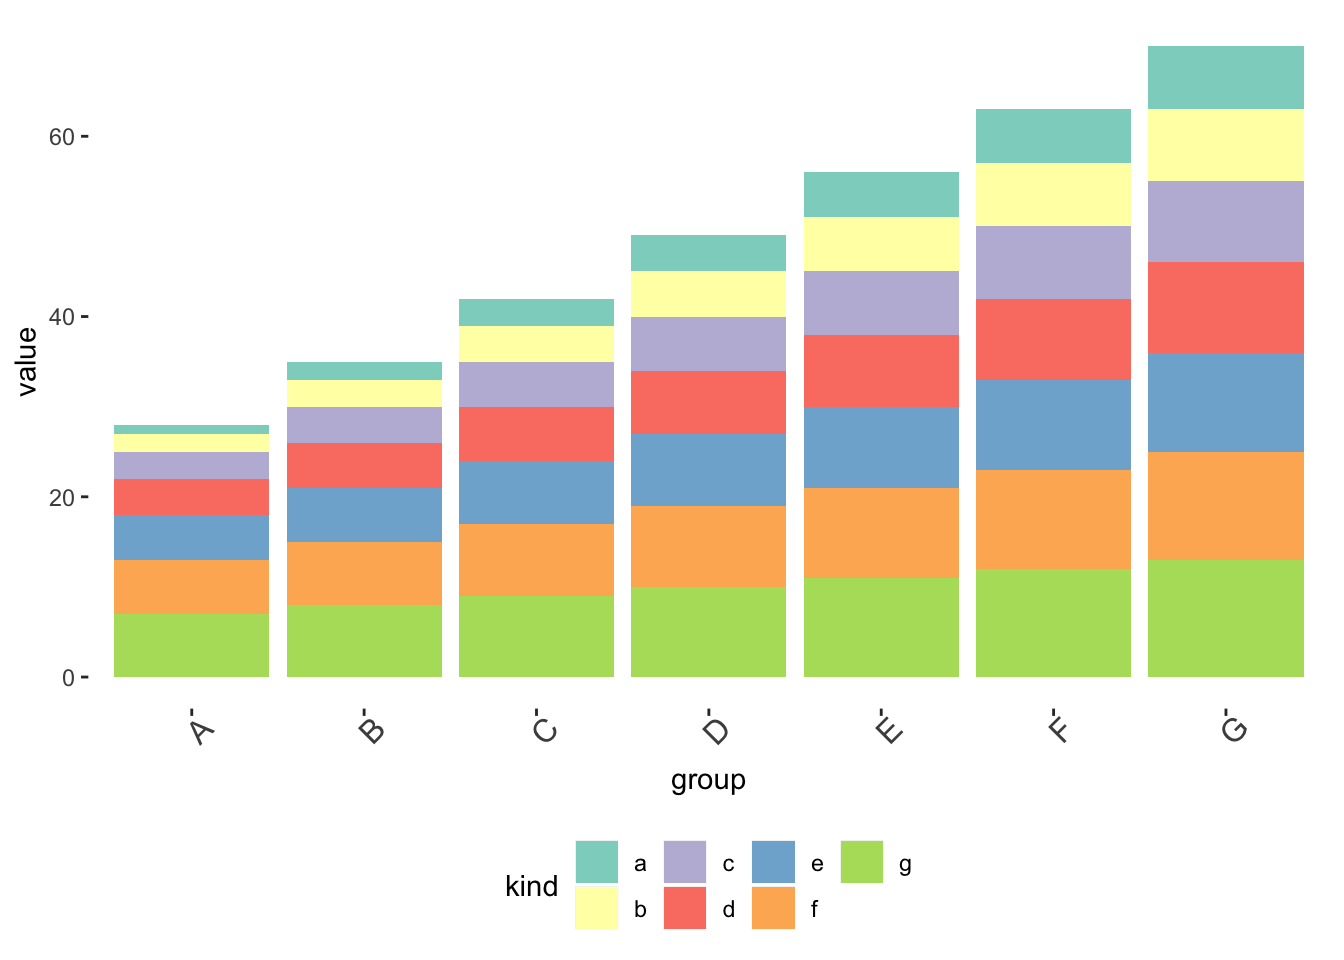
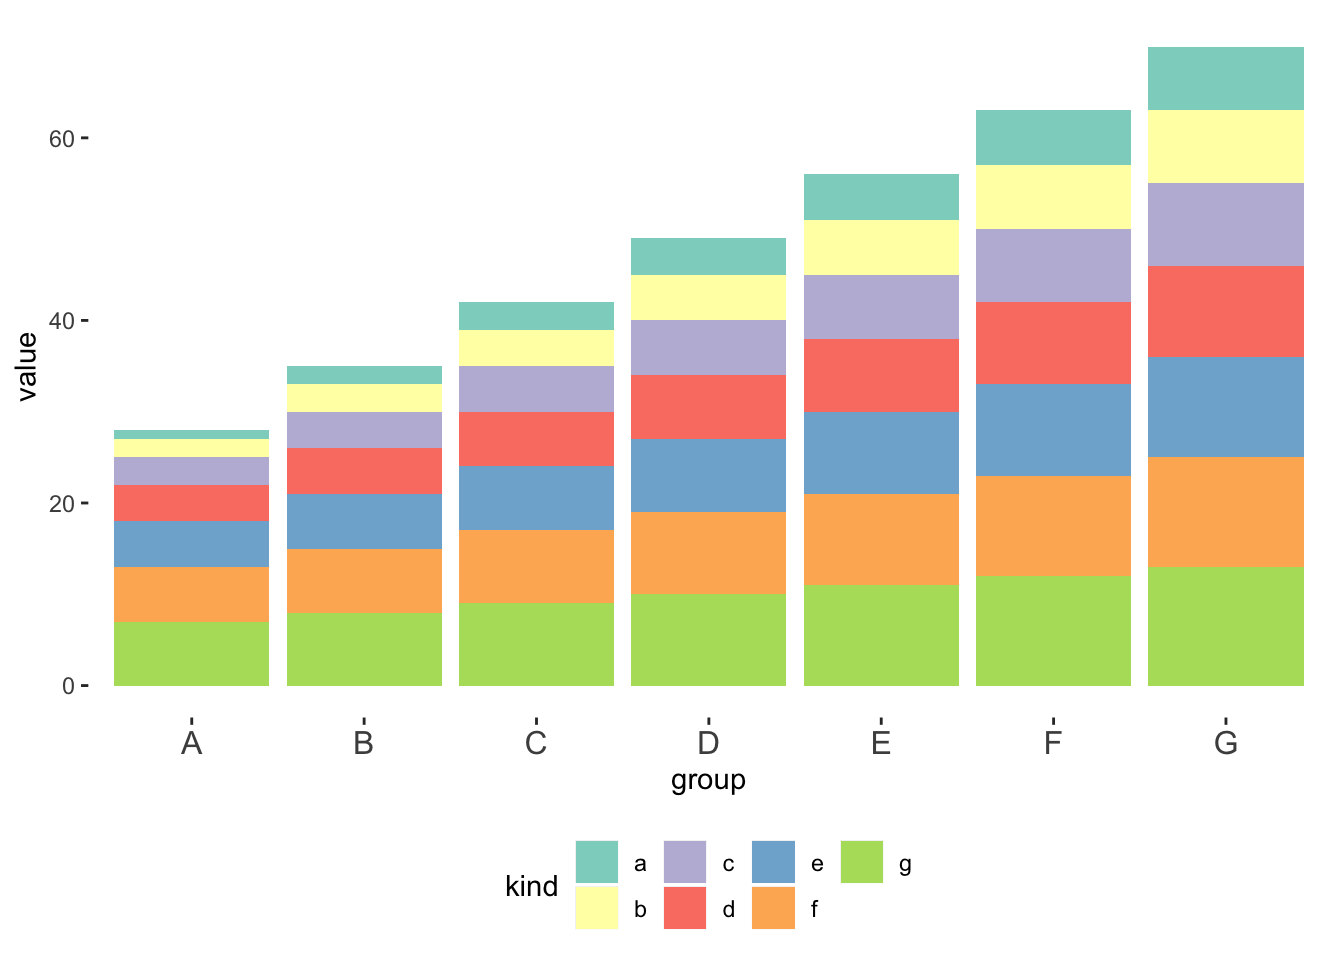
up

diff --git a/content/blog/2020-03-03-.html b/content/blog/2020-03-03-.html
@@ -11,25 +11,18 @@ tags:
 
 
 
-<pre class="r"><code>library(reshape2)</code></pre>
-<pre><code>## 
-## 载入程辑包：&#39;reshape2&#39;</code></pre>
-<pre><code>## The following object is masked from &#39;package:tidyr&#39;:
-## 
-##     smiths</code></pre>
 <pre class="r"><code>library(ggthemes)
-#data 
+suppressMessages(library(reshape2))
+#construct data 
 raw_data &lt;- data.frame(kind=c(&#39;a&#39;,&#39;b&#39;,&#39;c&#39;,&#39;d&#39;,&#39;e&#39;,&#39;f&#39;,&#39;g&#39;),
                         A=1:7,B=2:8,C=3:9,D=4:10,E=5:11,F=6:12,G=7:13)
+#convert data
 data &lt;- melt(raw_data,id.vars=&quot;kind&quot;,variable.name=&quot;group&quot;,value.name=&quot;value&quot;)
-
-col=c(&quot;#8DD3C7&quot;, &quot;#FFFFB3&quot;, &quot;#BEBADA&quot;, &quot;#FB8072&quot;, &quot;#80B1D3&quot;, 
-      &quot;#FDB462&quot;, &quot;#B3DE69&quot;)
-      
+#plot      
 ggplot(data,aes(group,value,fill=kind))+
-  geom_col(position=&quot;stack&quot;)+
-  scale_fill_manual(values = col,
-                    limits = c(&#39;a&#39;,&#39;b&#39;,&#39;c&#39;,&#39;d&#39;,&#39;e&#39;,&#39;f&#39;,&#39;g&#39;))+
-  theme(axis.text.x = element_text(angle = 45,size = 12),legend.position = &#39;bottom&#39;,
+  geom_col(position=&quot;stack&quot;)+#column
+  scale_fill_manual(values = c(&quot;#8DD3C7&quot;, &quot;#FFFFB3&quot;, &quot;#BEBADA&quot;, &quot;#FB8072&quot;, &quot;#80B1D3&quot;,  &quot;#FDB462&quot;, &quot;#B3DE69&quot;),#self_difine color
+                    limits = c(&#39;a&#39;,&#39;b&#39;,&#39;c&#39;,&#39;d&#39;,&#39;e&#39;,&#39;f&#39;,&#39;g&#39;))+#control the order of variables
+  theme(axis.text.x = element_text(angle = 0,size = 12),legend.position = &#39;bottom&#39;,
         panel.background = ggplot2::element_blank())</code></pre>
 <p><img src="/blog/2020-03-03-_files/figure-html/unnamed-chunk-1-1.png" width="672" /></p>
